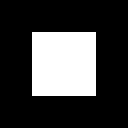
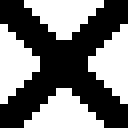
force colours

diff --git a/styles.css b/styles.css
@@ -1,3 +1,4 @@
 * {
-    border-radius: 0px !important;
+    background-color: black !important;
+    color: white !important;
 }
